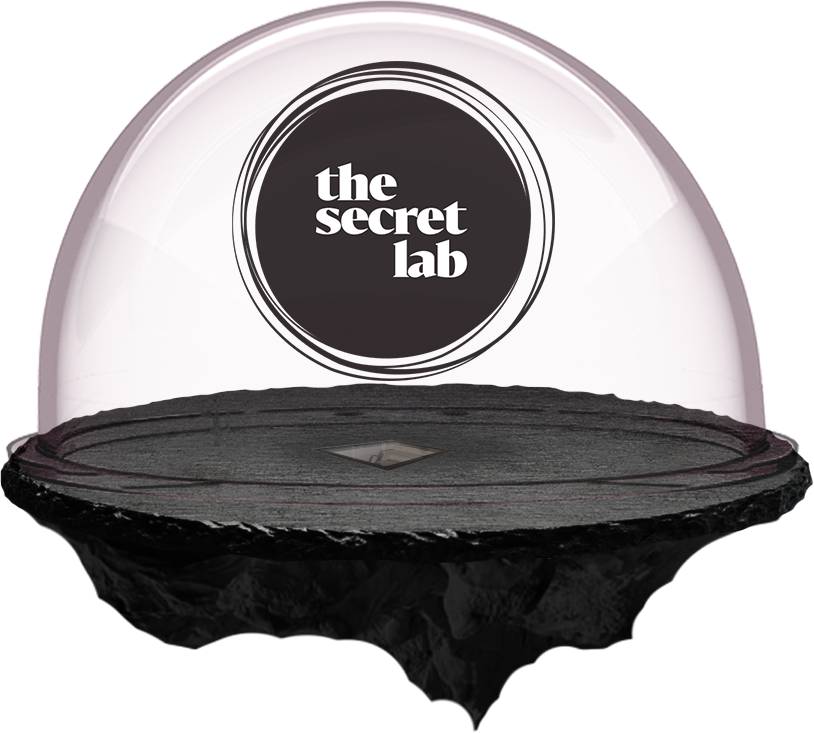
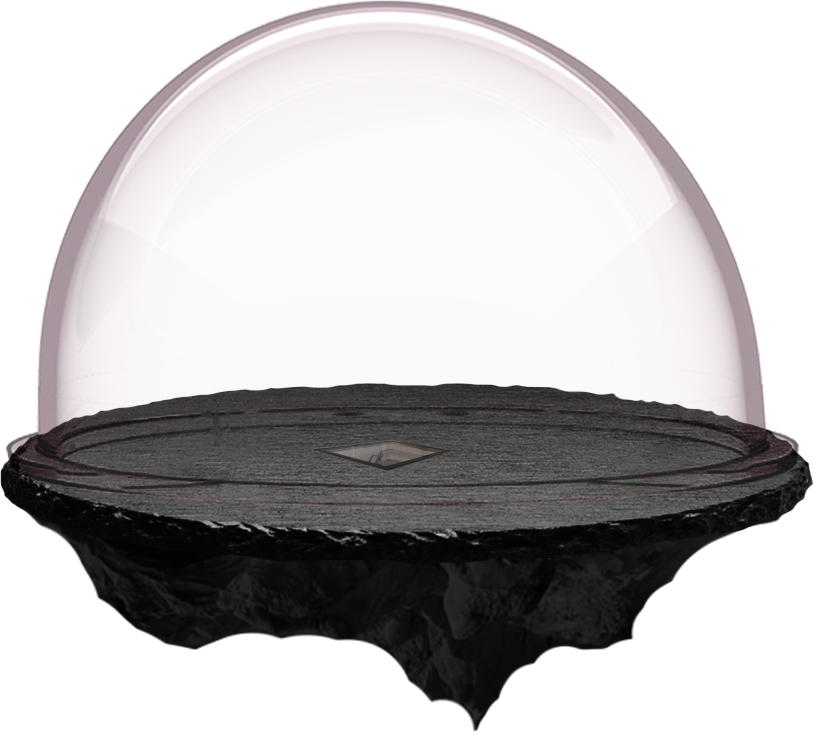
Added home animation

Changed region(s): [[0.2764, 0.06, 0.7064, 0.5402]]

diff --git a/compositions/Home/home.scss b/compositions/Home/home.scss
@@ -1,7 +1,15 @@
 @import "../../base-styles/settings/all";
 
 .home--background {
-  background: adjust-color($color-tyrian, $red: 28, $green: 15, $blue: 21) linear-gradient(227deg, $color-tyrian 30%, adjust-color($color-tyrian, $red: 36, $green: 14, $blue: 25) 60%, transparent 60%, rgba(0, 0, 0, 0.2) 60%, transparent 60.5%);
+  background: adjust-color($color-tyrian, $red: 28, $green: 15, $blue: 21)
+    linear-gradient(
+      227deg,
+      $color-tyrian 30%,
+      adjust-color($color-tyrian, $red: 36, $green: 14, $blue: 25) 60%,
+      transparent 60%,
+      rgba(0, 0, 0, 0.2) 60%,
+      transparent 60.5%
+    );
 }
 
 .home--background .main--gradient {
@@ -13,4 +21,62 @@
     rgba(0, 0, 0, 0.2) 50%,
     transparent 50.5%
   );
+}
+
+.home .main__header img {
+  position: relative;
+}
+
+.home .main__header .home-logo {
+  position: absolute;
+  width: 140px;
+  animation: floating 8s ease-in-out infinite;
+  margin-top: -70px;
+  margin-left: -10px;
+}
+
+.home .home-island {
+  animation: floating 8s ease-in-out infinite reverse;
+}
+
+.home .main__header:after {
+  content: "";
+  position: absolute;
+  top: 50%;
+  left: 50%;
+  filter: blur(5px);
+  background-color: rgba(10, 10, 10, 0.4);
+  border-radius: 100%;
+  width: 200px;
+  height: 30px;
+  transform: translateX(-50%);
+  margin-top: 45px;
+  margin-left: -10px;
+  animation: home-logo-shadow 8s infinite ease;
+}
+
+@media screen and (min-width: $view-tablet-landscape) {
+  .home .main__header:after {
+    margin-top: 55px;
+  }
+
+  .home .main__header .home-logo {
+    width: 200px;
+    margin-top: -90px;
+  }
+}
+
+@keyframes home-logo-shadow {
+  0%,
+  100% {
+    filter: blur(8px);
+    opacity: 0.8;
+    transform: translateX(-50%) scale(1.1);
+  }
+
+  65% {
+    filter: blur(5px);
+    opacity: 1;
+    transform: translateX(-50%) scale(0.9);
+  }
 }

diff --git a/compositions/Home/Home.js b/compositions/Home/Home.js
@@ -6,7 +6,8 @@ class Home extends React.Component {
     return (
       <section className="home">
         <div className={'main__header'}>
-          <img src="/static/images/home.png" width="300" alt="" />
+          <img className={'home-logo'} src="/static/images/logo-def-black-white.png" width="300" alt="" />
+          <img className={'home-island'} src="/static/images/home.png" width="300" alt="" />
         </div>
       </section>
     )
